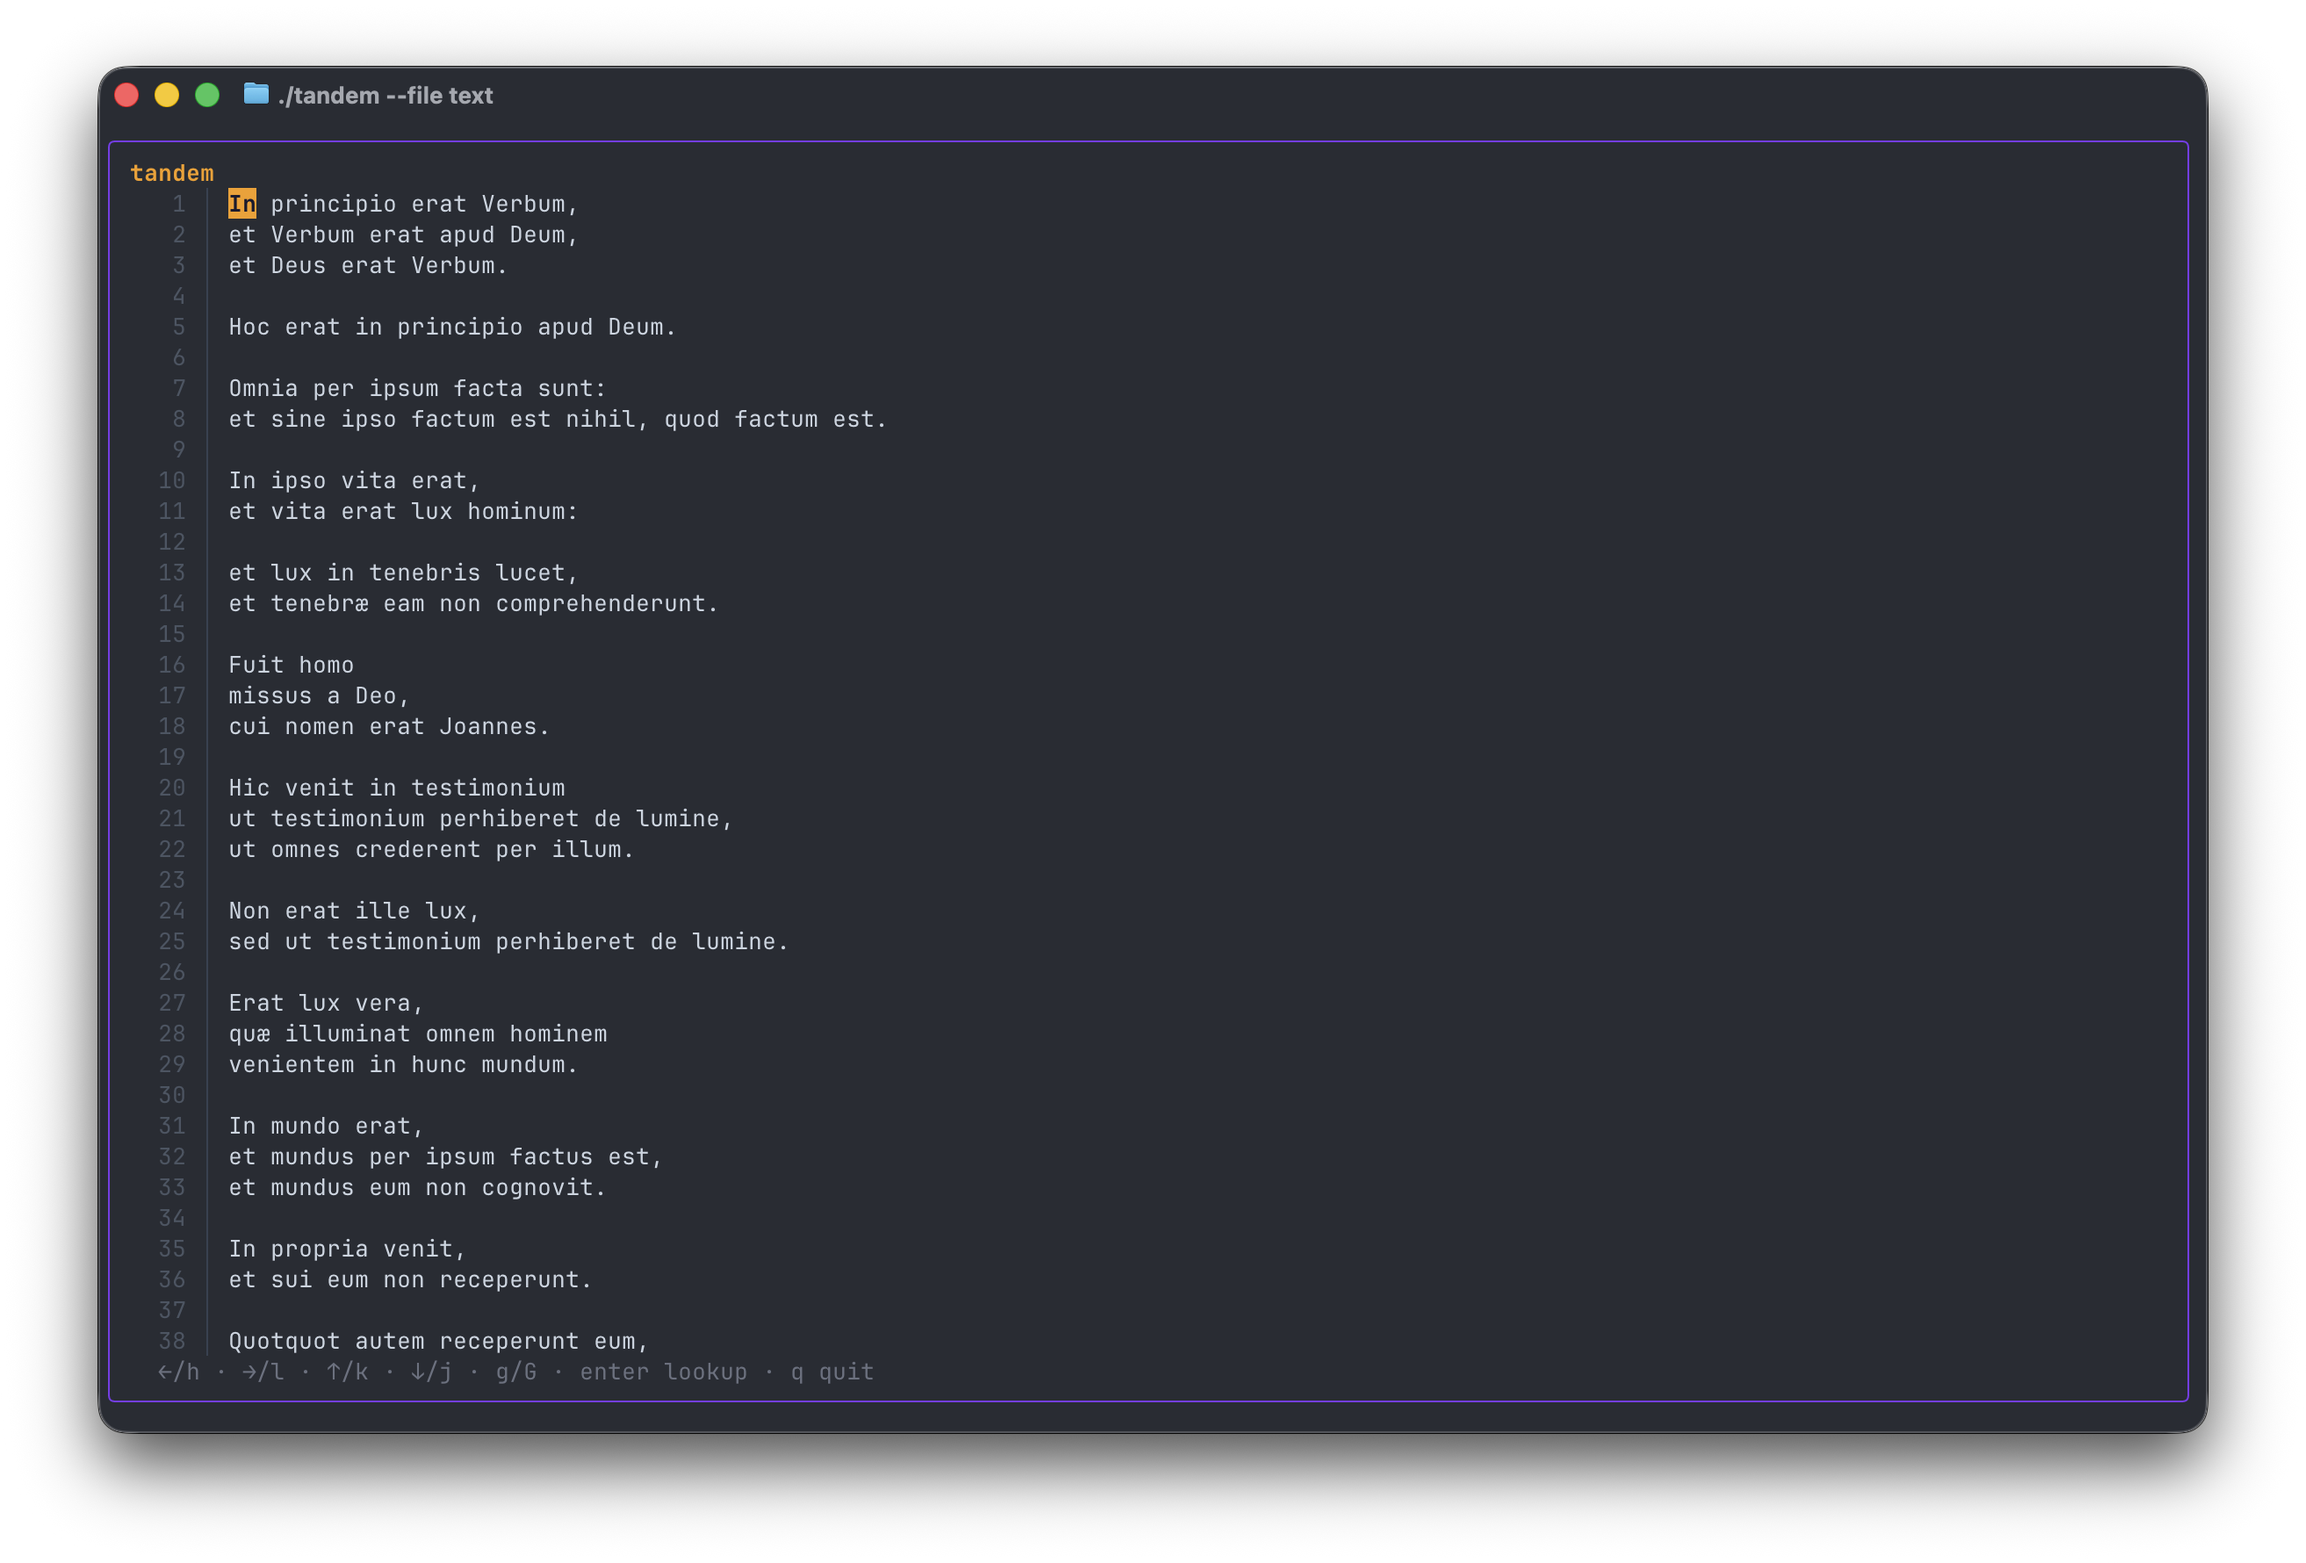
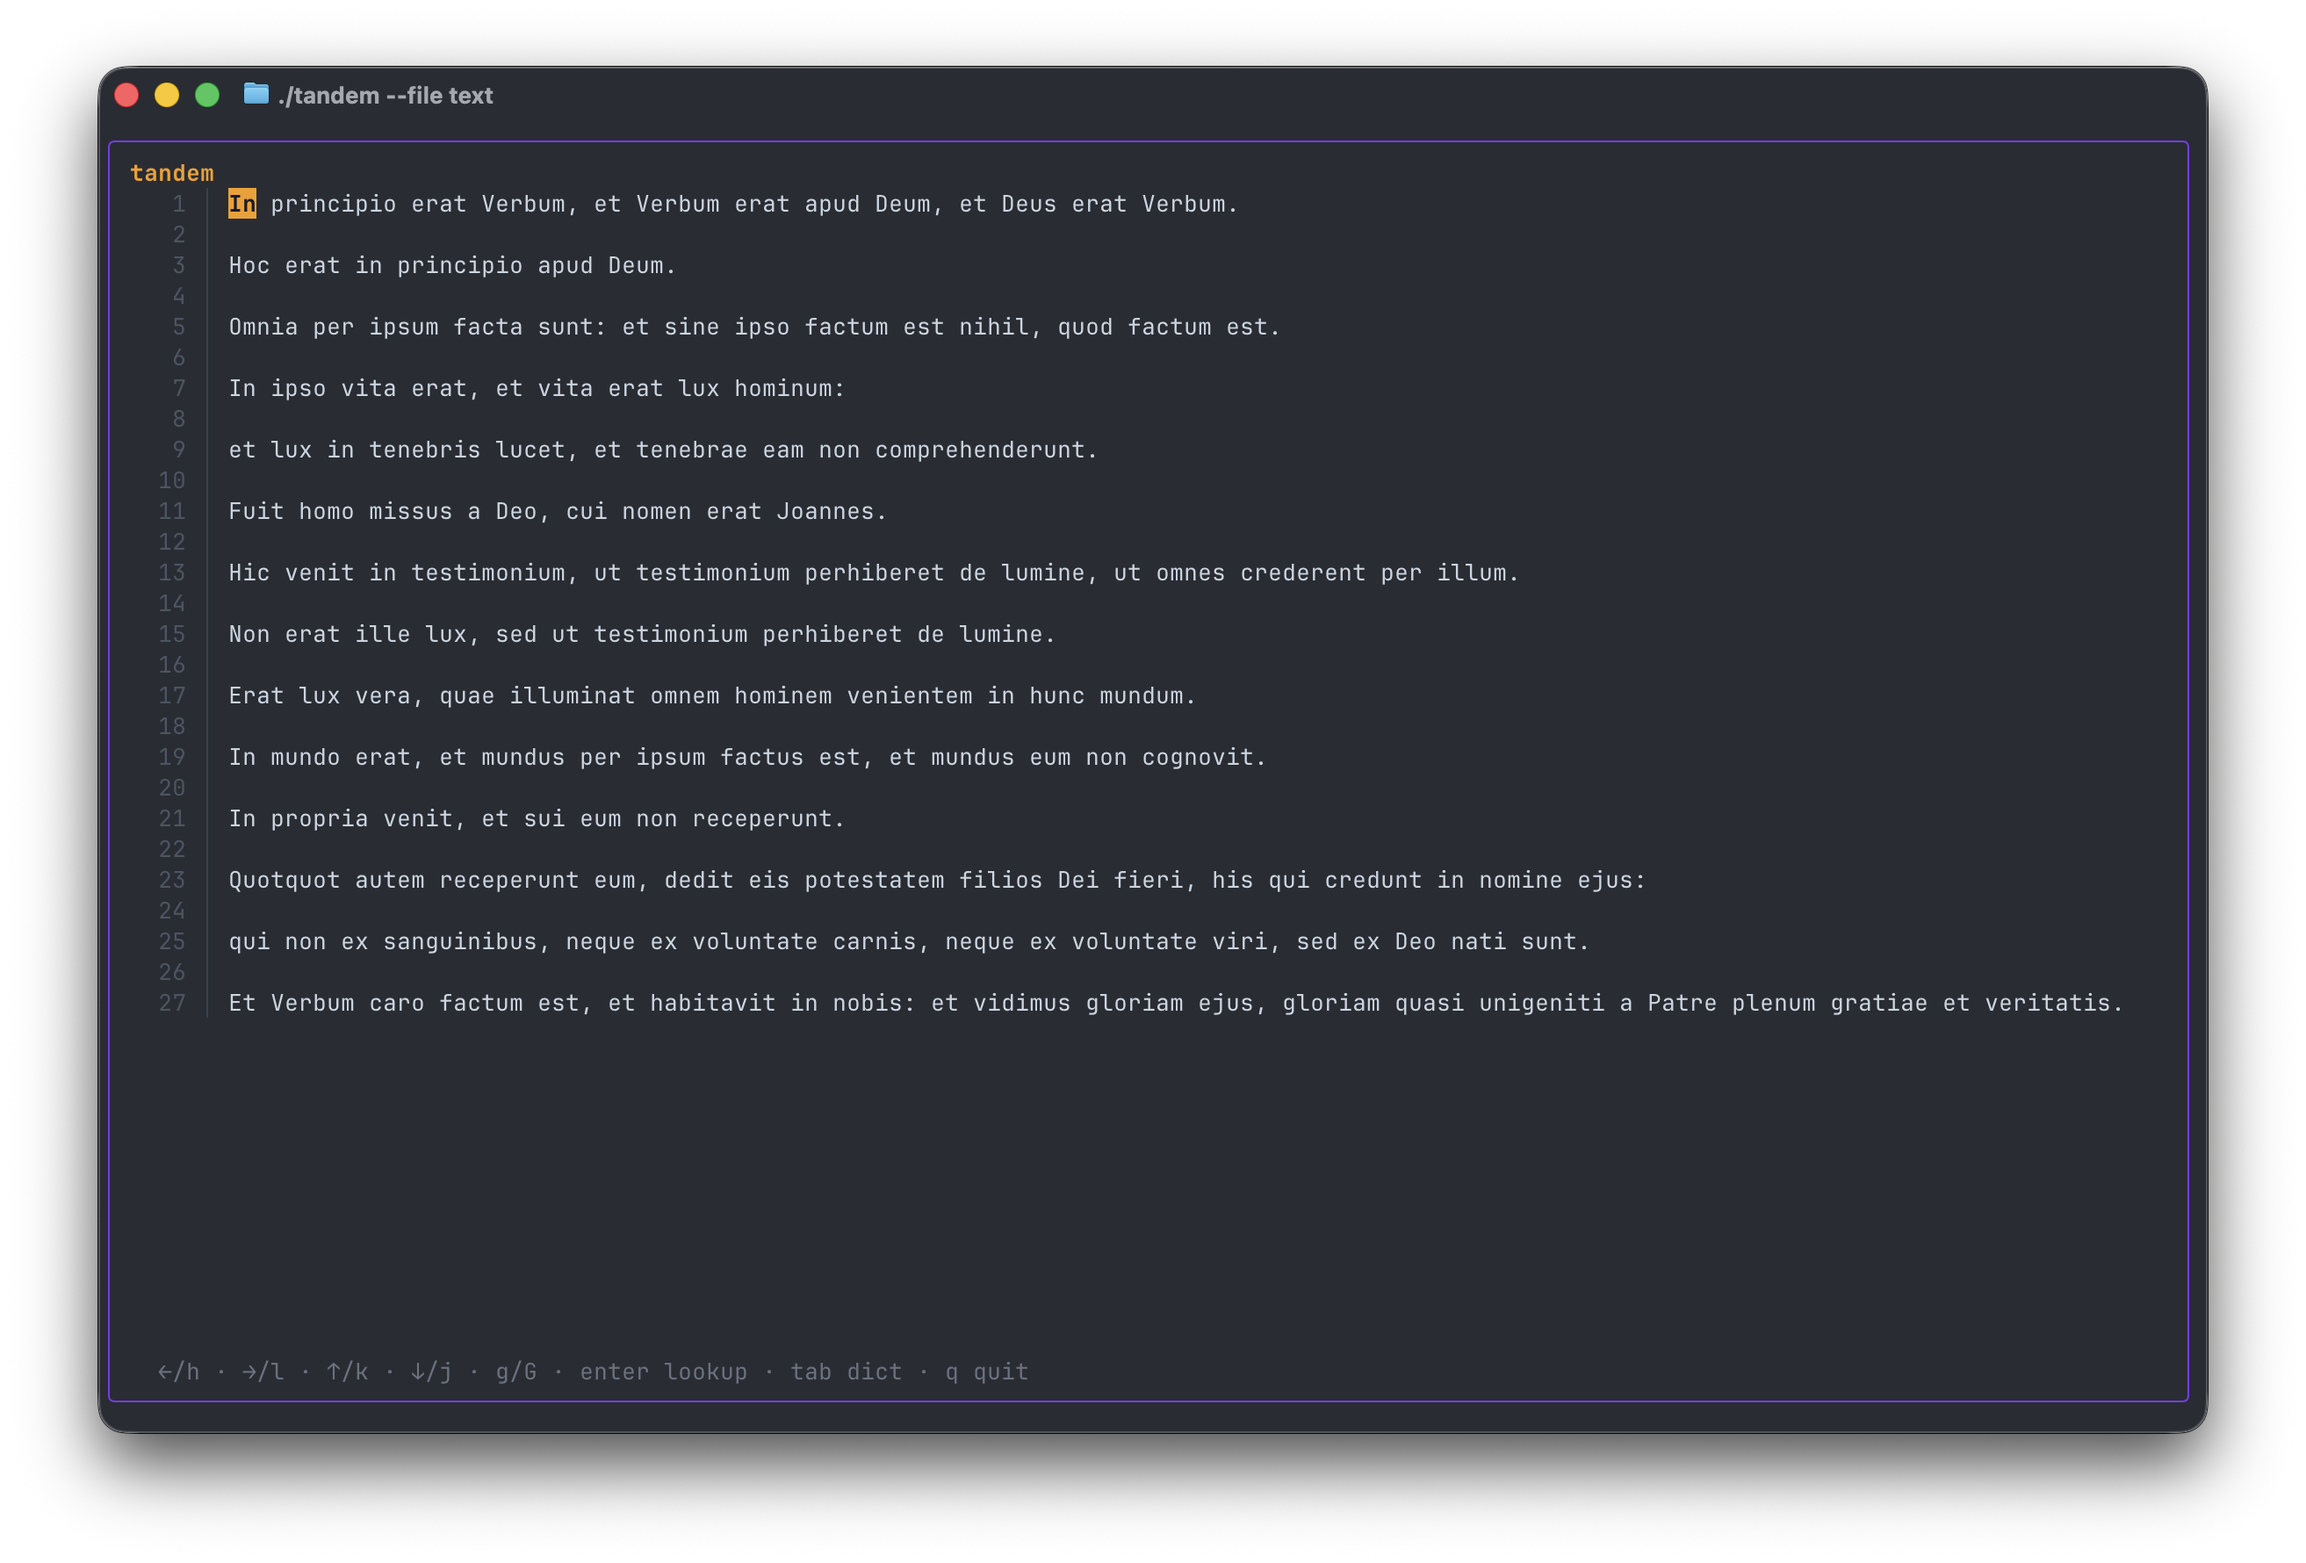
feat: implement wiktionary lookup

diff --git a/internal/latin/wiktionary.go b/internal/latin/wiktionary.go
@@ -1,0 +1,167 @@
+package latin
+
+import (
+	"encoding/json"
+	"fmt"
+	"html"
+	"io"
+	"net/http"
+	"regexp"
+	"strings"
+)
+
+const wiktionaryBase = "https://en.wiktionary.org/api/rest_v1/page/definition/"
+
+// tagRe strips HTML tags from Wiktionary definition strings.
+var tagRe = regexp.MustCompile(`<[^>]+>`)
+
+// Definition holds a part-of-speech heading and its English glosses.
+type Definition struct {
+	PartOfSpeech string
+	Glosses      []string
+}
+
+// wiktEntry is the per-language entry shape returned by the Wiktionary API.
+type wiktEntry struct {
+	PartOfSpeech string `json:"partOfSpeech"`
+	Definitions  []struct {
+		Definition string `json:"definition"`
+	} `json:"definitions"`
+}
+
+// fetchWiktionary queries the Wiktionary REST API for word and returns
+// any Latin-language entries found.
+func fetchWiktionary(word string) ([]wiktEntry, error) {
+	word = strings.ToLower(punctRe.ReplaceAllString(word, ""))
+	if word == "" {
+		return nil, nil
+	}
+
+	url := wiktionaryBase + word
+	req, err := http.NewRequest(http.MethodGet, url, nil)
+	if err != nil {
+		return nil, fmt.Errorf("wiktionary: building request: %w", err)
+	}
+
+	// Wikimedia requires a descriptive User-Agent; bare Go agents get 403'd.
+	req.Header.Set("User-Agent", "tandem/1.0 (https://github.com/teamdei/tandem; latin-reader) go-net/http")
+	resp, err := http.DefaultClient.Do(req)
+	if err != nil {
+		return nil, fmt.Errorf("wiktionary: GET %s: %w", url, err)
+	}
+	defer func() { _ = resp.Body.Close() }()
+
+	if resp.StatusCode == http.StatusNotFound {
+		return nil, nil // word simply not in Wiktionary
+	}
+	if resp.StatusCode != http.StatusOK {
+		return nil, fmt.Errorf("wiktionary: unexpected status %s", resp.Status)
+	}
+
+	body, err := io.ReadAll(resp.Body)
+	if err != nil {
+		return nil, fmt.Errorf("wiktionary: reading body: %w", err)
+	}
+
+	// The response is a JSON object keyed by language code, e.g. {"la": [...], "en": [...]}
+	var raw map[string][]wiktEntry
+	if err = json.Unmarshal(body, &raw); err != nil {
+		return nil, fmt.Errorf("wiktionary: parsing JSON: %w", err)
+	}
+
+	// Latin entries live under "la".
+	entries, ok := raw["la"]
+	if !ok || len(entries) == 0 {
+		return nil, nil // word simply not in Wiktionary
+	}
+	return entries, nil
+}
+
+// formOfRe matches the lemma link inside a Wiktionary form-of definition.
+var formOfRe = regexp.MustCompile(`class="form-of-definition-link"[^>]*>.*?<a[^>]*href="/wiki/([^"#]+)(?:#[^"]*)?"`)
+
+// LookupDefinitions queries the Wiktionary REST API. If the word only contains
+// inflected "form-of" definitions, it automatically resolves and looks up the
+// base lemma instead. It returns the actual word looked up (which may be the lemma)
+// and its definitions.
+func LookupDefinitions(word string) (string, []Definition, error) {
+	entries, err := fetchWiktionary(word)
+	if err != nil || len(entries) == 0 {
+		return word, nil, err
+	}
+
+	// Check if we need to resolve a form-of.
+	// We only follow form-of links if ALL definitions are purely inflections,
+	// or if we want to be safe, we just grab the first form-of link we find.
+	// Let's see if we have ANY non-form-of definitions.
+	hasSubstantive := false
+	var firstFormOf string
+
+	for _, entry := range entries {
+		for _, def := range entry.Definitions {
+			if strings.Contains(def.Definition, "form-of-definition") {
+				if firstFormOf == "" {
+					if m := formOfRe.FindStringSubmatch(def.Definition); len(m) > 1 {
+						firstFormOf = m[1]
+					}
+				}
+			} else {
+				hasSubstantive = true
+			}
+		}
+	}
+
+	// If the word has no substantive definitions of its own, fetch its lemma.
+	if !hasSubstantive && firstFormOf != "" {
+		resolved, err := fetchWiktionary(firstFormOf)
+		if err == nil && len(resolved) > 0 {
+			entries = resolved
+			word = firstFormOf
+		}
+	}
+
+	var defs []Definition
+	for _, entry := range entries {
+		d := Definition{PartOfSpeech: strings.Title(strings.ToLower(entry.PartOfSpeech))} //nolint:staticcheck
+		for _, def := range entry.Definitions {
+			gloss := cleanGloss(def.Definition)
+			if gloss != "" {
+				d.Glosses = append(d.Glosses, gloss)
+			}
+		}
+		if len(d.Glosses) > 0 {
+			defs = append(defs, d)
+		}
+	}
+	return word, defs, nil
+}
+
+// styleRe removes <style>...</style> blocks and their content.
+var styleRe = regexp.MustCompile(`(?s)<style[^>]*>.*?</style>`)
+
+// cleanGloss strips HTML tags and decodes HTML entities from a Wiktionary
+// definition string.
+func cleanGloss(s string) string {
+	s = styleRe.ReplaceAllString(s, "")
+
+	// Wikimedia often nests spans. Since regex can't handle arbitrary nesting well,
+	// we iteratively remove innermost spans until none are left. This safely kills
+	// <span class="usage-label-sense">.mw-parser-output...</span> without taking
+	// the whole definition down with it.
+	for {
+		prev := s
+		s = regexp.MustCompile(`<span[^>]*>[^<]*</span>`).ReplaceAllString(s, "")
+		if s == prev {
+			break
+		}
+	}
+
+	s = tagRe.ReplaceAllString(s, "")
+	s = html.UnescapeString(s)
+
+	// Some Wiktionary entries have leftover CSS class text if it wasn't
+	// inside a <style> tag, but usually the <style> tag houses it.
+	// We also replace multiple spaces with a single space.
+	s = strings.Join(strings.Fields(s), " ")
+	return strings.TrimSpace(s)
+}

diff --git a/internal/ui/view.go b/internal/ui/view.go
@@ -10,6 +10,9 @@ import (
 	"github.com/charmbracelet/lipgloss"
 )
 
+// maxGlosses is the maximum number of glosses shown per part-of-speech group.
+const maxGlosses = 5
+
 // View dispatches to the correct view function for the current state.
 func (m Model) View() string {
 	if m.width == 0 {
@@ -18,10 +21,12 @@ func (m Model) View() string {
 	switch m.state {
 	case StateReading:
 		return m.viewReading()
-	case StateLoading:
+	case StateLoading, StateLoadingDef:
 		return m.viewLoading()
 	case StateDetail:
 		return m.viewDetail()
+	case StateDefinition:
+		return m.viewDefinition()
 	case StateQuit:
 		return m.viewQuit()
 	default:
@@ -72,7 +77,7 @@ func (m Model) viewReading() string {
 	}
 
 	body := lipgloss.NewStyle().Width(cw).Render(strings.Join(rows, "\n"))
-	status := styles.Status.Render("  ←/h · →/l · ↑/k · ↓/j · g/G · enter lookup · q quit")
+	status := styles.Status.Render("  ←/h · →/l · ↑/k · ↓/j · g/G · enter analyze · tab define · q quit")
 
 	return styles.Main.Width(layout.MainStyleWidth(m.width)).Render(
 		styles.Title.Render("tandem") + "\n" + body + "\n" + status,
@@ -106,6 +111,50 @@ func (m Model) viewDetail() string {
 				}
 			}
 			lines = append(lines, "  "+styles.Analysis.Render(s))
+		}
+	}
+
+	lines = append(lines, "", styles.Status.Render("  esc / q  ·  back to reader"))
+
+	panel := styles.Panel.Width(m.width / 2).Render(strings.Join(lines, "\n"))
+	return lipgloss.Place(m.width, m.height, lipgloss.Center, lipgloss.Center, panel)
+}
+
+func (m Model) viewDefinition() string {
+	title := m.dictBaseWord
+	if title == "" {
+		title = m.selectedWord
+	}
+	word := styles.PanelTitle.Render(title)
+
+	// If the inflected form differs from the lemma, show the source word.
+	subtitle := ""
+	if m.dictBaseWord != "" && m.dictBaseWord != m.selectedWord {
+		subtitle = "\n  " + styles.Dim.Render("← "+m.selectedWord)
+	}
+	sep := styles.Dim.Render(strings.Repeat("─", 44))
+
+	var lines []string
+	lines = append(lines, word+subtitle, sep)
+
+	switch {
+	case m.err != nil:
+		lines = append(lines, styles.Analysis.Render("  Error: "+m.err.Error()))
+	case len(m.definitions) == 0:
+		lines = append(lines, styles.Analysis.Render("  No definitions found."))
+	default:
+		for i, d := range m.definitions {
+			if i > 0 {
+				lines = append(lines, "") // blank line between POS groups
+			}
+			lines = append(lines, "  "+styles.POS.Render(d.PartOfSpeech))
+			limit := len(d.Glosses)
+			if limit > maxGlosses {
+				limit = maxGlosses
+			}
+			for j, g := range d.Glosses[:limit] {
+				lines = append(lines, fmt.Sprintf("  %s", styles.Analysis.Render(fmt.Sprintf("%d. %s", j+1, g))))
+			}
 		}
 	}
 

diff --git a/internal/ui/model.go b/internal/ui/model.go
@@ -36,6 +36,8 @@ const (
 	StateReading AppState = iota
 	StateLoading
 	StateDetail
+	StateLoadingDef
+	StateDefinition
 	StateQuit
 )
 
@@ -53,6 +55,22 @@ func FetchWord(word string) tea.Cmd {
 	}
 }
 
+// DictResultMsg is the message delivered when the combined Perseus+Wiktionary call completes.
+type DictResultMsg struct {
+	BaseWord string // the lemma that was sent to Wiktionary
+	Defs     []latin.Definition
+	Err      error
+}
+
+// FetchDefinition returns a tea.Cmd that queries Wiktionary for English definitions of word.
+// If the word only contains inflected forms, Wiktionary automatically follows the link to the base lemma.
+func FetchDefinition(word string) tea.Cmd {
+	return func() tea.Msg {
+		base, defs, err := latin.LookupDefinitions(word)
+		return DictResultMsg{BaseWord: base, Defs: defs, Err: err}
+	}
+}
+
 // Model is the root bubbletea model for the tandem application.
 type Model struct {
 	words         []string
@@ -62,7 +80,9 @@ type Model struct {
 	state         AppState
 	spinner       spinner.Model
 	response      latin.Response
+	definitions   []latin.Definition
 	selectedWord  string
+	dictBaseWord  string // lemma sent to Wiktionary
 	err           error
 }
 
@@ -112,13 +132,18 @@ func (m Model) Update(msg tea.Msg) (tea.Model, tea.Cmd) {
 		m.state = StateDetail
 		return m, nil
 
+	case DictResultMsg:
+		m.definitions, m.dictBaseWord, m.err = msg.Defs, msg.BaseWord, msg.Err
+		m.state = StateDefinition
+		return m, nil
+
 	case tea.KeyMsg:
 		switch m.state {
 
 		case StateReading:
 			return m.updateReading(msg)
 
-		case StateDetail:
+		case StateDetail, StateDefinition:
 			switch msg.String() {
 			case "q", "esc":
 				m.state = StateReading
@@ -153,6 +178,14 @@ func (m Model) updateReading(msg tea.KeyMsg) (tea.Model, tea.Cmd) {
 		m.selectedWord = m.words[m.cursor]
 		m.state = StateLoading
 		return m, tea.Batch(m.spinner.Tick, FetchWord(m.selectedWord))
+
+	case "tab":
+		if len(m.words) == 0 || m.words[m.cursor] == layout.Newline {
+			break
+		}
+		m.selectedWord = m.words[m.cursor]
+		m.state = StateLoadingDef
+		return m, tea.Batch(m.spinner.Tick, FetchDefinition(m.selectedWord))
 
 	case "left", "h":
 		if m.cursor > 0 {

diff --git a/README.md b/README.md
@@ -6,11 +6,13 @@ tandem (Latin for "at last") is a **fast, cross-platform and lightweight Latin r
 
 <img src="https://github.com/TeamDei/tandem/raw/main/screenshots/1.png">
 <img src="https://github.com/TeamDei/tandem/raw/main/screenshots/2.png">
+<img src="https://github.com/TeamDei/tandem/raw/main/screenshots/3.png">
 
 ## Features
 
  - Blazing fast, 100% cross-platform (Mac, Windows, Linux) and lightweight terminal application
- - Integrates with Tuft University's Perseus API to provide instant analyses of Latin words
+ - Integrates with Tuft University's Perseus API to provide instant morphological analyses of Latin words
+ - Integrates with the Wiktionary REST API to provide instant English dictionary definitions
 
 ## Installation
 
@@ -44,8 +46,9 @@ tandem recognizes various keybinds which enable quick and easy navigation.
  - **G, end:** Move to the bottom.
  - **Ctrl-F, page down:** Move down by one page.
  - **Ctrl-B, page up:** Move up by one page.
- - **ENTER:** Get analyses on a Latin word.
- - **ESC:** Exit tandem.
+ - **ENTER:** Get morphological analyses on a Latin word (via Perseus).
+ - **TAB:** Get English dictionary definitions for a Latin word (via Wiktionary).
+ - **ESC:** Exit tandem or close an open panel.
 
 #### Tuft University / Perseus API Integration
 
@@ -84,6 +87,18 @@ Following are examples which showcase the full range of the API's features:
 (verb) 2nd person sg, pass. ind. pres. of libet
 (verb) 2nd person sg, pass. imperat. pres. of libet
 (verb) 2nd person sg, pass. subj. pres. of libo
+```
+
+#### Wiktionary API Integration
+
+The dictionary integration allows tandem to fetch English definitions for a Latin word directly from Wiktionary. It acts natively — searching for conjugated verbs or declined nouns will automatically resolve to their base dictionary lemma. For example, hitting `Tab` on the word `principium` yields:
+
+```
+===Noun===
+1. a beginning, an origin, a commencement
+2. a groundwork, a foundation, a principle
+3. the elements, the first principles
+4. the front ranks, camp headquarters
 ```
 
 ## Contributing
